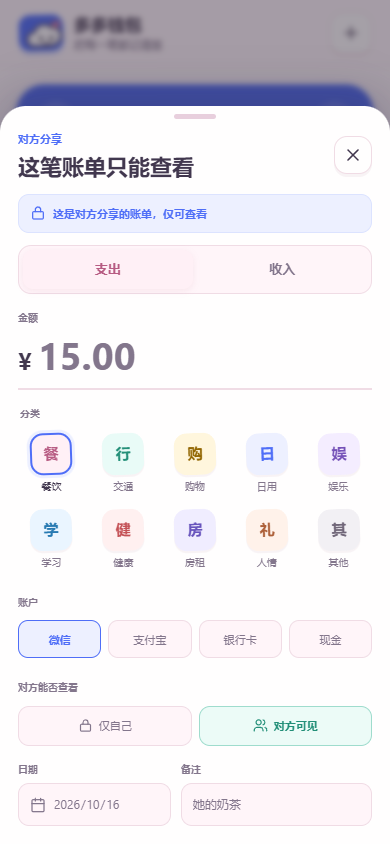
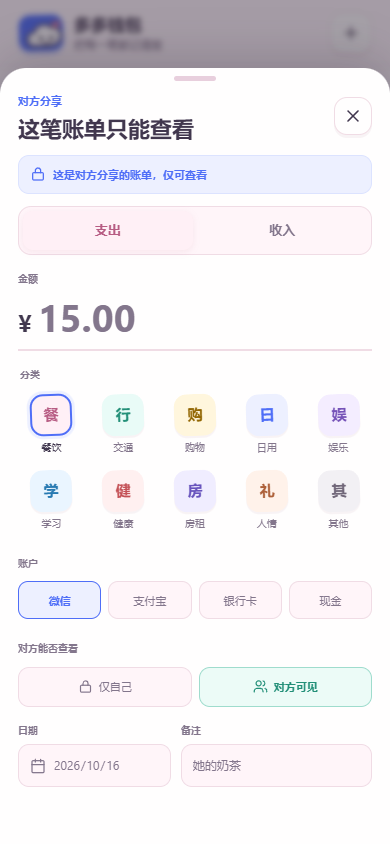
fix: make entry sheet scrollable and fix partner labels

diff --git a/app.js b/app.js
@@ -35,6 +35,7 @@
   };
   const ALL_CATEGORIES = [...EXPENSE_CATEGORIES, ...INCOME_CATEGORIES];
   const ACCOUNTS = ["微信", "支付宝", "银行卡", "现金"];
+  const PARTNER_LABEL = "佳嘉";
 
   const state = {
     view: "home",
@@ -232,7 +233,7 @@
     state.cloudMessageType = "";
     await refreshCloudTransactions(false);
     startCloudSync();
-    if (!silent) showToast(partner ? `已连接 ${partner.display_name || "对方"}` : "共享账本已连接");
+    if (!silent) showToast(partner ? `已连接 ${PARTNER_LABEL}` : "共享账本已连接");
     renderAll();
   }
 
@@ -593,7 +594,7 @@
     }
 
     const ownName = state.profile?.display_name || "我";
-    const partnerName = state.partner?.display_name || "对方";
+    const partnerName = PARTNER_LABEL;
     const partnerBlock = state.partner
       ? `
       <div class="partner-strip">
@@ -1109,7 +1110,7 @@
     const metaParts = [category?.name || "未分类", item.account];
     if (showDate) metaParts.unshift(formatBillDate(item.date));
     const privacy = isPartnerEntry
-      ? `<span class="privacy-badge partner-entry"><svg><use href="#i-users"></use></svg>${escapeHtml(state.partner?.display_name || "对方")}</span>`
+      ? `<span class="privacy-badge partner-entry"><svg><use href="#i-users"></use></svg>${PARTNER_LABEL}</span>`
       : item.visibility === "partner"
         ? `<span class="privacy-badge shared"><svg><use href="#i-users"></use></svg>对方可见</span>`
         : `<span class="privacy-badge"><svg><use href="#i-lock"></use></svg>仅自己</span>`;

diff --git a/styles.css b/styles.css
@@ -1416,11 +1416,14 @@ main {
   bottom: 0;
   left: 0;
   width: min(100%, 600px);
-  max-height: 92vh;
+  height: 92vh;
+  height: 92dvh;
+  max-height: 840px;
   margin: 0 auto;
   padding: 8px 18px calc(18px + var(--safe-bottom));
-  overflow-y: auto;
-  overscroll-behavior: contain;
+  display: flex;
+  flex-direction: column;
+  overflow: hidden;
   border-radius: 26px 26px 0 0;
   background: var(--surface);
   box-shadow: 0 -12px 44px rgba(40, 28, 44, .18);
@@ -1446,6 +1449,23 @@ main {
   justify-content: space-between;
   gap: 12px;
   margin-bottom: 14px;
+}
+
+#transactionForm {
+  display: flex;
+  min-height: 0;
+  flex: 1;
+  flex-direction: column;
+}
+
+.sheet-scroll {
+  min-height: 0;
+  flex: 1;
+  padding-bottom: 8px;
+  overflow-y: auto;
+  overscroll-behavior: contain;
+  touch-action: pan-y;
+  -webkit-overflow-scrolling: touch;
 }
 
 .sheet-heading h2 {
@@ -1733,9 +1753,9 @@ main {
 }
 
 .sheet-actions {
-  position: sticky;
+  position: relative;
   z-index: 4;
-  bottom: 0;
+  flex: 0 0 auto;
   display: flex;
   gap: 9px;
   margin: 20px -18px calc(-18px - var(--safe-bottom));

diff --git a/index.html b/index.html
@@ -337,6 +337,7 @@
       </header>
 
       <form id="transactionForm" novalidate>
+        <div class="sheet-scroll">
         <div class="readonly-banner" id="readonlyBanner" hidden>
           <svg><use href="#i-lock"></use></svg>
           这是对方分享的账单，仅可查看
@@ -391,6 +392,7 @@
             <span>备注</span>
             <input id="noteInput" type="text" maxlength="80" placeholder="可选" autocomplete="off">
           </label>
+        </div>
         </div>
 
         <div class="sheet-actions">

diff --git a/sw.js b/sw.js
@@ -1,5 +1,5 @@
 /* 改动页面文件后同步提升 CACHE 版本，联网时会优先取新版本。 */
-const CACHE = "duoduo-wallet-v14";
+const CACHE = "duoduo-wallet-v15";
 const ASSETS = [
   "./",
   "./index.html",

diff --git a/更新日志.md b/更新日志.md
@@ -8,6 +8,8 @@
 - 云端写入改为按 ID 忽略重复插入，避免网络重试或并发提交产生多笔记录。
 - 真实 Supabase 验证同一个账单 ID 连续提交两次后，数据库最终只有一条。
 - 增加双击提交回归测试，结果为一次操作只生成一笔。
+- 记账弹层改为内容区独立滚动，手机可以滑动到日期和备注，保存按钮固定在底部。
+- 对方共享账单昵称固定显示为“佳嘉”，不再使用资料中的手机号或自定义昵称。
 
 ## 2026-10-17 v1.2.0
 

diff --git a/README.md b/README.md
@@ -20,6 +20,7 @@
 - 私密账单由数据库行级权限拦截，不会进入对方设备。
 - 明细页可在“双方 / 我的 / 对方”之间切换，也可以从配对信息直接打开对方共享账本。
 - 每次打开记账弹层会生成固定账单 ID，连续点击和网络重试不会重复写入。
+- 对方共享账单昵称固定显示为“佳嘉”。
 
 ## 数据
 
